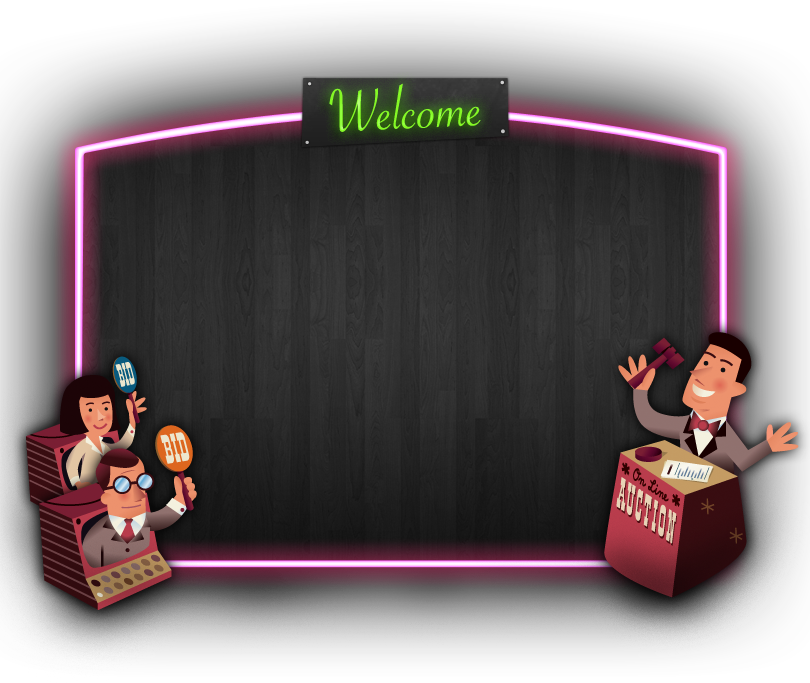
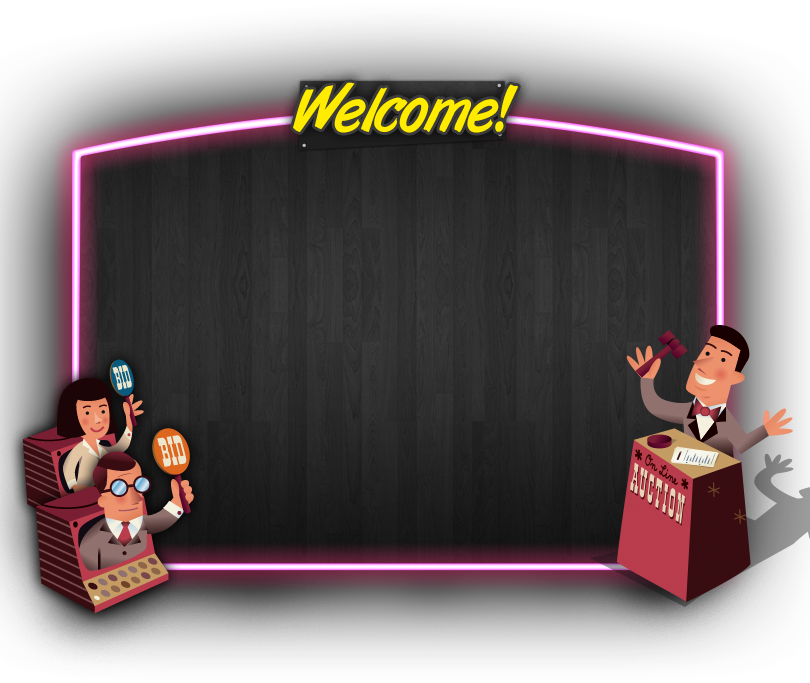
btn close welcome

Changed region(s): [[0.0, 0.0922, 1.0, 0.9224]]

diff --git a/templates/bidding/mainpage.html b/templates/bidding/mainpage.html
@@ -588,28 +588,32 @@ preloadImage("{% static "images/help-img.png" %}");
 		<!--popup section-->
 		<!--welcome widget-->
 		<div id="welcome" style="display:none;">
+			<div class="btn-close">
+				<a href="#"><img src="{% static "images/tutorial/btn-close.png" %}" width="39" height="39" /></a>
+			</div>
+
 			<div class="text">
 				<p>
 					Hi {{ member.user.first_name }}.</br> I'm Kenny, your interactive auctioneer.
 				</p></br>
 				<!--span>I think you are here because you want to buy items at <strong>90%</strong> off the retail cost.</br> I'll be leading all auctions and giving you tips on how to </br> play the interactive auction ™ game and win.
 				<br/>
-				</br></br> Are you ready?</br><strong> Let's get started with the Interactive Tutorial.</strong></span-->
-				<br/>
-				<br/>
-				<span>Welcome to iBidGames!  I will be leading all auctions and giving you tips on how to
-					play and win Facebook’s first interactive auction ™ game.
-					<br/>
-					Are you ready? </span>
+			</br></br> Are you ready?</br><strong> Let's get started with the Interactive Tutorial.</strong></span-->
+			<br/>
+			<br/>
+			<span><strong>Welcome to iBidGames!</strong></br>I will be leading all auctions and giving you tips on how to
+				play</br>and win Facebook’s first interactive auction ™ game.
+				<br/><br/>
+				Are you ready? </span>
 			</div>
 			<br/>
 			<br/>
 			<br/>
 			<a href="#">
-			<div class="btn-welcome">
-				Let's get started with the Tutorial
-			</div> </a>
-		</div>
+				<div class="btn-welcome">
+					Let's get started with the Tutorial
+				</div> </a>
+			</div>
 		<!--welcome popup-->
 		{% if display_popup %}
 		<script type="text/javascript">

diff --git a/static/css/main.css b/static/css/main.css
@@ -1304,7 +1304,14 @@ body {
 	height: 683px;
 	z-index: 10000;
 }
-
+#welcome .btn-close {
+	position: absolute;
+	right: 90px;
+	top: 151px;
+}
+#welcome .btn-close:hover {
+opacity:0.8;
+}
 #welcome .btn-welcome {
 	width: 320px;
 	height: 51px;
@@ -1317,6 +1324,9 @@ body {
 	position: absolute;
 	text-align: center;
 	line-height: 50px;
+}
+#welcome .btn-welcome:hover {
+opacity:0.8;
 }
 #welcome .text {
 	color: #fff;
